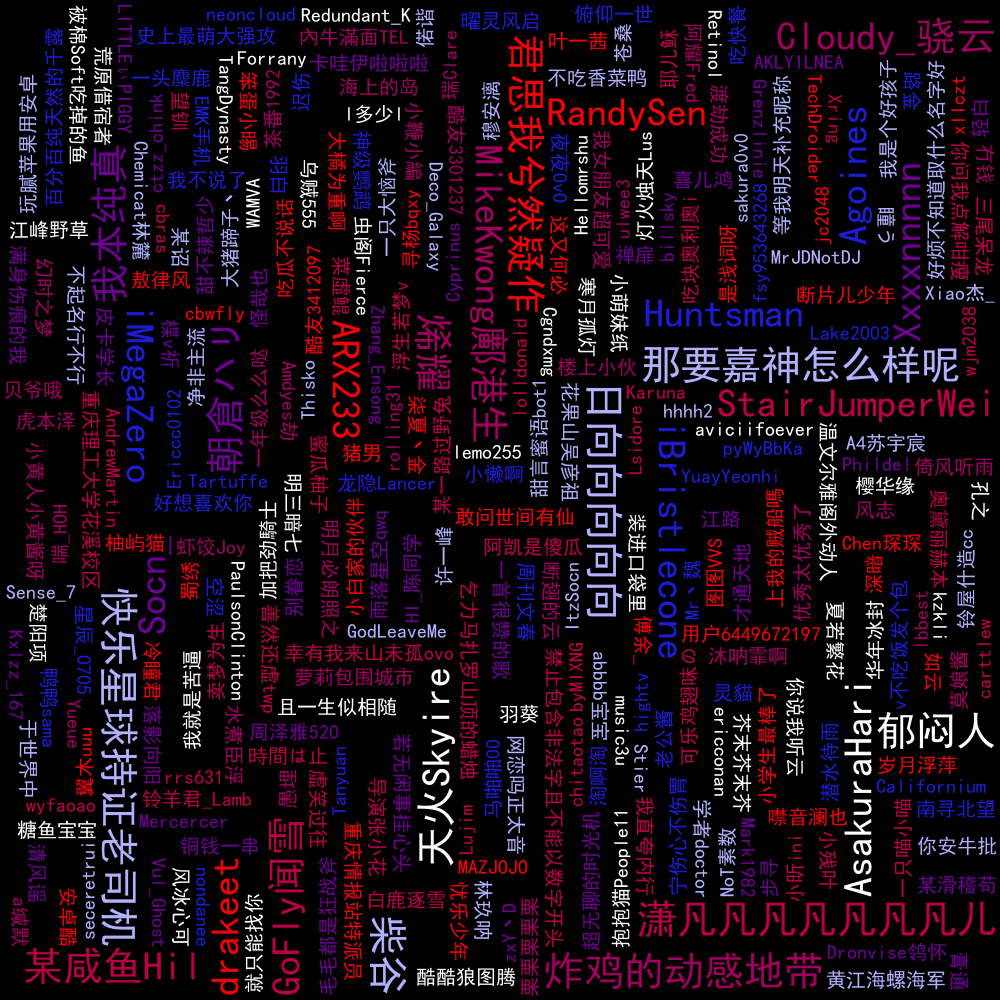
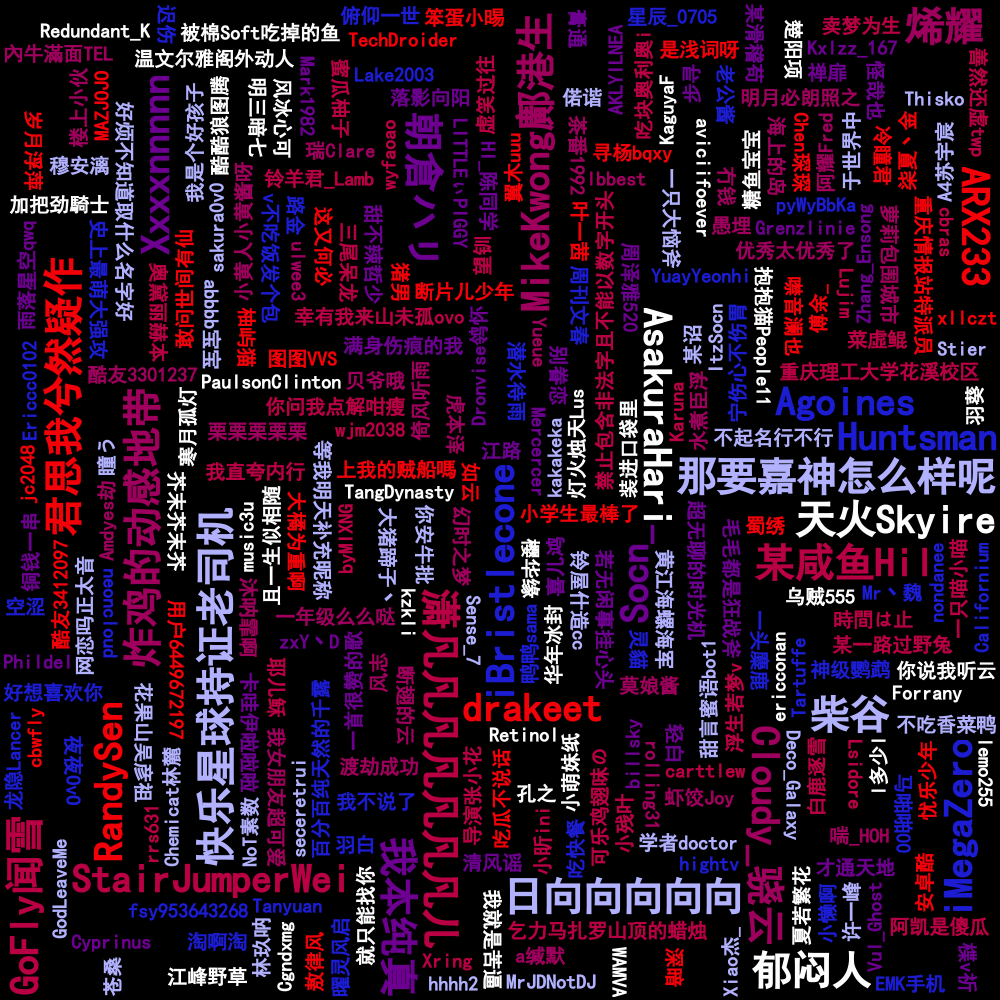
docs(FansWordCloud.png): 更改了示例输出图片的配色和样式 fix(FansWordCloud.java): 更改了示例输出图片的配色和样式

diff --git a/CoolApkFans/src/FansWordCloud.java b/CoolApkFans/src/FansWordCloud.java
@@ -108,7 +108,7 @@ public class FansWordCloud {
         WordCloud wordCloud = new WordCloud(dimension, CollisionMode.PIXEL_PERFECT);//完美像素 大概是尽量填充
         wordCloud.setBackground(new RectangleBackground(dimension));
         wordCloud.setPadding(3);
-        java.awt.Font font = new java.awt.Font(fontStr, Font.PLAIN, fontSize);// 设置字体,如果找不到设置的就会使用默认字体,字号请自行看情况调整
+        java.awt.Font font = new java.awt.Font(fontStr, Font.BOLD, fontSize);// 设置字体,如果找不到设置的就会使用默认字体,字号请自行看情况调整
 
         wordCloud.setColorPalette(new ColorPalette(new Color(0x1C1CD3), new Color(0x6D0090), new Color(0xB1B1FE),
                 new Color(0xF40009), new Color(0xBA0044), new Color(0xA0005D), new Color(0xFDFDFE)));//词云颜色
@@ -143,7 +143,7 @@ public class FansWordCloud {
             WordCloud wordCloud = new WordCloud(dimension, CollisionMode.PIXEL_PERFECT);// 完美像素大概指的是完成填充
             wordCloud.setBackground(new PixelBoundaryBackground(backgroundImage));// 设置背景蒙版使用图片,注意图片需要自行把不需要渲染的部分擦除成透明像素,否则会和矩形一样
             wordCloud.setPadding(2);
-            java.awt.Font font = new java.awt.Font(fontStr, Font.PLAIN, fontSize);// 设置字体,如果找不到设置的就会使用默认字体,字号请自行看情况调整
+            java.awt.Font font = new java.awt.Font(fontStr, Font.BOLD, fontSize);// 设置字体,如果找不到设置的就会使用默认字体,字号请自行看情况调整
 
             wordCloud.setColorPalette(new ColorPalette(new Color(0x1C1CD3), new Color(0x6D0090), new Color(0xB1B1FE),
                     new Color(0xF40009), new Color(0xBA0044), new Color(0xA0005D), new Color(0xFDFDFE)));//词云颜色
